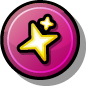
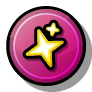
remove a shit-ton of server logs, and upgrade to Badgify instead of Badges API (yay!)

diff --git a/src/Managers/GauntletManagerPopup.cpp b/src/Managers/GauntletManagerPopup.cpp
@@ -40,20 +40,6 @@ static CustomGauntletData parseGauntletJson(matjson::Value const& g) {
     data.infoSuggester = g["info_suggester"].asString().unwrapOr("");
     data.infoAccID     = g["info_acc_id"].asInt().unwrapOr(0);
 
-    if (g.contains("levels") && g["levels"].isArray()) {
-        int i = 0;
-        for (auto const& lvl : g["levels"]) {
-            if (i >= 5) break;
-            log::debug("parseGauntletJson: level[{}] raw json: {}", i, lvl.dump());
-            data.levels[i].id      = lvl["level_id"].asInt().unwrapOr(0);
-            data.levels[i].name    = lvl["level_name"].asString().unwrapOr("");
-            data.levels[i].creator = lvl["creator"].asString().unwrapOr("");
-            data.levels[i].stars   = lvl["stars"].asInt().unwrapOr(0);
-            i++;
-        }
-    } else {
-        log::debug("parseGauntletJson: '{}' has no levels array (contains={})", data.name, g.contains("levels"));
-    }
     return data;
 }
 
@@ -373,7 +359,6 @@ void GauntletManagerPopup::fetchGauntlets() {
             }
 
             auto json = res.json().unwrapOr(matjson::Value());
-            log::debug("fetchGauntlets response: {}", json.dump());
             m_gauntlets = parseGauntletsResponse(json);
 
             buildGauntletList();
@@ -464,13 +449,13 @@ void GauntletManagerPopup::buildGauntletRow(CustomGauntletData const& g) {
     iconNode->setPosition({30, row->getContentHeight() / 2});
     iconNode->setAnchorPoint({0.5f, 0.5f});
 
-    auto loadingIcon = LoadingCircle::create();
-    loadingIcon->setID("loading-circle");
-    loadingIcon->setPosition(iconNode->getContentSize() / 2);
-    loadingIcon->setContentSize({50, 50});
-    loadingIcon->setOpacity(120);
-    loadingIcon->setAnchorPoint({0.5f, 0.5f});
-    iconNode->addChild(loadingIcon);
+    // auto loadingIcon = LoadingCircle::create();
+    // loadingIcon->setID("loading-circle");
+    // loadingIcon->setPosition(iconNode->getContentSize() / 2);
+    // loadingIcon->setContentSize({50, 50});
+    // loadingIcon->setOpacity(120);
+    // loadingIcon->setAnchorPoint({0.5f, 0.5f});
+    // iconNode->addChild(loadingIcon);
     row->addChild(iconNode);
 
     // Name with gauntlet's name color
@@ -616,14 +601,6 @@ void GauntletManagerPopup::onEdit(int gauntletId) {
         data.levels[i].creator = it->levels[i].creator;
         data.levels[i].stars   = it->levels[i].stars;
     }
-    log::debug("onEdit: source levels (CustomGauntletData):");
-    for (int i = 0; i < 5; i++) {
-        log::debug("  src slot {}: id={}", i, it->levels[i].id);
-    }
-    log::debug("onEdit: copied levels (GauntletEditData):");
-    for (int i = 0; i < 5; i++) {
-        log::debug("  dst slot {}: id={}", i, data.levels[i].id);
-    }
 
     GauntletEditPopup::create(data, [this, gauntletId](GauntletEditData const& updated) {
         // Remove any previous staged update for this gauntlet
@@ -696,13 +673,13 @@ void GauntletManagerPopup::buildStagedRow(GauntletEditData const& g, int index) 
     iconNode->setPosition({30, gauntletListItem->getContentHeight() / 2});
     iconNode->setAnchorPoint({0.5, 0.5});
 
-    auto loadingIcon = LoadingCircle::create();
-    loadingIcon->setID("loading-circle");
-    loadingIcon->setPosition(iconNode->getContentSize() / 2);
-    loadingIcon->setContentSize({50, 50});
-    loadingIcon->setOpacity(120);
-    loadingIcon->setAnchorPoint({0.5, 0.5});
-    iconNode->addChild(loadingIcon);
+    // auto loadingIcon = LoadingCircle::create();
+    // loadingIcon->setID("loading-circle");
+    // loadingIcon->setPosition(iconNode->getContentSize() / 2);
+    // loadingIcon->setContentSize({50, 50});
+    // loadingIcon->setOpacity(120);
+    // loadingIcon->setAnchorPoint({0.5, 0.5});
+    // iconNode->addChild(loadingIcon);
     gauntletListItem->addChild(iconNode);
 
     // STAGED badge

diff --git a/src/Hooks/ProfilePage/ProfilePage.cpp b/src/Hooks/ProfilePage/ProfilePage.cpp
@@ -2,66 +2,34 @@
 #include <Geode/modify/ProfilePage.hpp>
 #include <Geode/modify/CommentCell.hpp>
 #include <Geode/utils/web.hpp>
+#include <alphalaneous.badgify/include/Badgify.hpp>
 
 using namespace geode::prelude;
+using namespace alpha::badgify;
 
 static const int MANAGER_ACCOUNT_ID = 1975253; // placeholder until isManager is added by Supernova backend
 
-static void addManagerBadge(CCMenu* usernameMenu) {
+$execute {
+    alpha::badgify::registerBadge(
+        "GR_badgeManager_001.png"_spr, 
+        "Gauntlet Manager", 
+        "This user oversees and moderates <cc>Better Gauntlets</c>' custom Gauntlets. They can <cg>add</c>, <cj>edit</c>, and <cr>delete</c> gauntlets added by the mod. This does not apply to the <cy>Lost Gauntlets</c>, which are hosted exclusively by <co>RobTop</c>.", 
+        [] (const Badge& badge) {
+            if (badge.modStatus == ModStatus::Regular) {
+                showBadge(badge, CCSprite::createWithSpriteFrameName("modBadge_01_001.png"));
+            }
+        }
+    );
 
-    if (!usernameMenu) return;
-    if (usernameMenu->getChildByID("gauntlet-manager-badge"_spr)) return;
-
-    auto sprite = CCSprite::createWithSpriteFrameName("GR_badgeManager_001.png"_spr);
-    if (!sprite) return;
-
-    auto badge = CCMenuItemExt::createSpriteExtra(sprite, [](CCMenuItemSpriteExtra*) {
-        FLAlertLayer::create(
-            nullptr,
-            "Gauntlet Manager",
-            "This user oversees and moderates <cc>Better Gauntlets</c>' custom Gauntlets. They can <cg>add</c>, <cj>edit</c>, and <cr>delete</c> gauntlets added by the mod. This does not apply to the <cy>Lost Gauntlets</c>, which are hosted exclusively by <co>RobTop</c>.",   
-            "OK", nullptr, 300.f
-        )->show();
+    setProfileCallback("GR_badgeManager_001.png"_spr, [] (const Badge& badge) {
+        if (badge.user->m_accountID == MANAGER_ACCOUNT_ID && badge.location == Location::Profile) {
+            showBadge(badge, CCSprite::createWithSpriteFrameName("GR_badgeManager_001.png"_spr));
+        }
+        if (badge.user->m_accountID == MANAGER_ACCOUNT_ID && badge.location == Location::Comment) {
+            showBadge(badge, CCSprite::createWithSpriteFrameName("GR_badgeManager_001.png"_spr));
+        }
+        if (badge.user->m_accountID == MANAGER_ACCOUNT_ID && badge.location == Location::InfoPopup) {
+            showBadge(badge, CCSprite::createWithSpriteFrameName("GR_badgeManager_large_001.png"_spr));
+        }
     });
-
-    // ID must contain "-badge" for BadgesAPI to detect and position it correctly
-    badge->setID("gauntlet-manager-badge:999"_spr);
-    usernameMenu->addChild(badge);
-    usernameMenu->updateLayout();
 }
-
-class $modify(MyProfilePage, ProfilePage) {
-    struct Fields {
-        async::TaskHolder<web::WebResponse> m_checkHolder;
-    };
-
-    void loadPageFromUserInfo(GJUserScore* a2) {
-        ProfilePage::loadPageFromUserInfo(a2);
-
-        if (a2->m_accountID != MANAGER_ACCOUNT_ID) return;
-
-        auto layer = m_mainLayer;
-        if (!layer) return;
-
-        auto usernameMenu = static_cast<CCMenu*>(layer->getChildByIDRecursive("username-menu"));
-        addManagerBadge(usernameMenu);
-    }
-};
-
-class $modify(MyCommentCell, CommentCell) {
-    void loadFromComment(GJComment* comment) {
-        CommentCell::loadFromComment(comment);
-
-        if (comment->m_accountID != MANAGER_ACCOUNT_ID) return;
-
-        auto layer = m_mainLayer;
-        if (!layer) return;
-
-        auto usernameMenu = static_cast<CCMenu*>(layer->getChildByIDRecursive("username-menu"));
-        addManagerBadge(usernameMenu);
-
-        auto badge = static_cast<CCMenu*>(layer->getChildByIDRecursive("gauntlet-manager-badge:999"_spr));
-        if (!badge) return;
-        badge->setScale(0.7);
-    }
-};

diff --git a/src/CustomGauntlets/CustomGauntletNode.cpp b/src/CustomGauntlets/CustomGauntletNode.cpp
@@ -35,8 +35,16 @@ bool CustomGauntletNode::init(
 
     auto ph = CCSprite::create("GR_unknownGauntlet_001.png"_spr);
     ph->setID("icon-placeholder");
-    ph->setPosition({sprite->getContentWidth() / 2, sprite->getContentHeight() / 2});
+    ph->setPosition({sprite->getContentWidth() / 2, sprite->getContentHeight() / 2 + 10});
     sprite->addChild(ph, 10);
+
+    auto phs = CCSprite::create("GR_unknownGauntlet_001.png"_spr);
+    phs->setID("icon-placeholder");
+    phs->setColor({0, 0, 0});
+    phs->setOpacity(50);
+    phs->setScaleY(1.2f);
+    phs->setPosition({ph->getPositionX(), ph->getPositionY() - 10.f});
+    sprite->addChild(phs);
 
     // Name
     auto nameLabel = CCLabelBMFont::create(data.name.c_str(), "bigFont.fnt");
@@ -225,8 +233,8 @@ void CustomGauntletNode::loadIcon() {
                 shadow->setPosition({container->getContentWidth() / 2, container->getContentHeight() / 2});
 
                 if (auto ph = container->getChildByID("icon-placeholder")) ph->removeFromParent();
-                container->addChild(shadow, 0);
-                container->addChild(icon, 0);
+                container->addChild(shadow);
+                container->addChild(icon, 1);
             });
         }
     );

diff --git a/src/CustomGauntlets/CustomGauntletLayer.cpp b/src/CustomGauntlets/CustomGauntletLayer.cpp
@@ -53,7 +53,7 @@ bool CustomGauntletLayer::init(CustomGauntletData const& data) {
     // Back button
     auto backMenu = CCMenu::create();
     backMenu->setID("exit-menu");
-    backMenu->setPosition({24, CCDirector::get()->getScreenTop() - 30});
+    backMenu->setPosition({24, CCDirector::get()->getScreenTop() - 25.5f});
     addChild(backMenu, 5);
 
     auto backSpr = CCSprite::createWithSpriteFrameName("GJ_arrow_01_001.png");
@@ -373,8 +373,7 @@ void CustomGauntletLayer::buildLevelButtons(CCArray* levels) {
 
         // Sprite PH
         auto islandSpr = CCSprite::create("GR_unknownGauntlet_001.png"_spr);
-        if (!islandSpr)
-            islandSpr = CCSprite::create(); // bare fallback
+        if (!islandSpr) islandSpr = CCSprite::create();
         islandSpr->setID(fmt::format("island-{}", i + 1).c_str());
         islandSpr->setPosition(levelSpr->getContentSize() / 2);
         if (isLocked) islandSpr->setColor({128, 128, 128});

diff --git a/src/Managers/GauntletManagerAPI.cpp b/src/Managers/GauntletManagerAPI.cpp
@@ -95,10 +95,6 @@ web::WebFuture GauntletManagerAPI::create(GauntletEditData const& data) {
 }
 
 web::WebFuture GauntletManagerAPI::update(GauntletEditData const& data) {
-    log::debug(
-        "update: token empty={}, accountId={}, id={}, body={}",
-        m_token.empty(), GJAccountManager::get()->m_accountID, data.id, buildGauntletBody(data).dump()
-    );
     return web::WebRequest()
         .header("Content-Type", "application/json")
         .header("Authorization", "Bearer " + m_token)

diff --git a/src/Hooks/CreatorLayer/CreatorLayer.cpp b/src/Hooks/CreatorLayer/CreatorLayer.cpp
@@ -10,7 +10,10 @@ bool MyCreatorLayer::init() {
     auto gauntletsBtn = static_cast<CCMenuItemSpriteExtra*>(
         this->getChildByIDRecursive("gauntlets-button")
     );
+    auto newSprite = CCSprite::create("GR_gauntletBtn_001.png"_spr);
+    newSprite->setScale(0.8);
     if (gauntletsBtn) {
+        gauntletsBtn->setSprite(newSprite);
         gauntletsBtn->setTarget(this, menu_selector(MyCreatorLayer::onGauntlets));
     } else {
         log::warn("Could not find gauntlets-button");

diff --git a/src/Hooks/LoadingLayer.cpp b/src/Hooks/LoadingLayer.cpp
@@ -1,0 +1,1 @@
+// capeling ragebaited

diff --git a/changelog.md b/changelog.md
@@ -1,15 +1,20 @@
 # <cc>v2.0.0</c>
 - <c-c4ffc4><cg>**Added**</c> New Gauntlets!
-    - Finally we no longer have to rely on RobTop to add new Gauntlets, as Gauntlet Managers can now create official-quality Gauntlets!
-    - To celebrate the release of Better Gauntlets v2.0.0 and the capabilities for new Gauntlets, the Star Gauntlet is now available to play! Select the star next to the layer title to see what's up!
+    - Finally we no longer have to rely on RobTop to add new Gauntlets, as Gauntlet Managers can now create official-quality Gauntlets! These Gauntlets can be mixed in rating and gameplay type to create a unique Gauntlet experience!
+    - To celebrate the release of Better Gauntlets v2.0.0 and the capabilities for new Gauntlets, the **Star** and **Moon** Gauntlets are now available to play! Select the star next to the layer title ("The Lost Gauntlets") to see them!
 - <c-c4ffc4><cg>**Added**</c> Slider navigation to the Gauntlets!
-    - All gauntlets now load on one page instead of three per-page, and the page is able to scroll horizontally. Use either dragging or the scroll bar at the bottom of the screen to navigate the layer!
+    - All gauntlets now load on one page instead of three per-page, and this page is able to scroll horizontally. Use either dragging or the scroll bar at the bottom of the screen to navigate the Gauntlets!
 - <c-c4ffc4><cg>**Added**</c> 
 - <c-ffffc4><cy>**Updated**</c>: `GauntletSelectLayer` now uses the `BetterGauntletSelectLayer` class!
 - <c-ffffc4><cy>**Updated**</c>: `GauntletLayer` now uses the `BetterGauntletLayer` class!
     - With these class changes, Better Gauntlets no longer relies on RobTop's vanilla Gauntlet layers, and can be easily updated when a new version of Geode and/or Geometry Dash releases!
+- <c-ffffc4><cy>**Updated**</c> `CreatorLayer` to show a new Gauntlet button texture!
 - <c-c4ebff><cl>**Fixed**</c>
 - <c-ffc4c4><cr>**Removed**</c> Rescale Loading Circle setting.
+
+## Known Issues:
+- The new Gauntlets added by Better Gauntlets may not show up all the time, this is due to rate limiting. If you would like to support this mod and help fund the server's upkeep, please consider donating to my Kofi or Boosty!
+- GDUtils' "New Gauntlet Design" setting **does not work** with this update, and that is intentional. Measures have been taken to make sure the setting does not apply due to the modifications made to `GauntletNode`.
 
 <c-33333b>*The Gauntlet Keeper grows bored of you. He departs now, but may soon return.*
 
